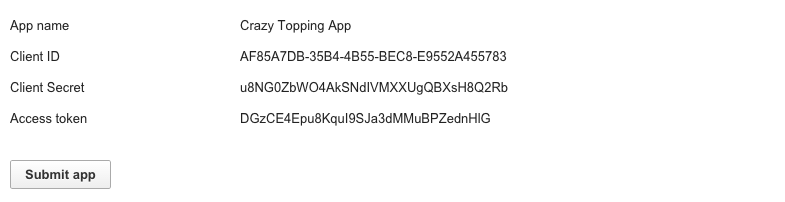
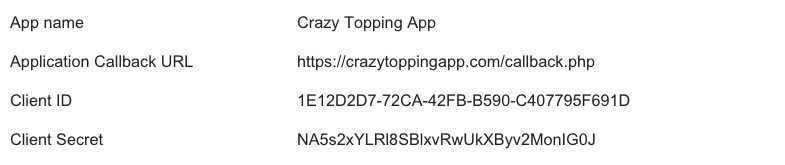
Include test authorisation flow
* TW-115
* Update "create an app" description
* Update affected screenshots

diff --git a/apps/create-app.md b/apps/create-app.md
@@ -4,34 +4,46 @@ key: apps-create
 title: Create an app
 ---
 
-Once you have your test shop in place, you can create an app. You automatically receive a **Client ID**, **Client Secret** and **Access token** when you create an app in your test shop.
+Once you have your test shop in place, you can create an app.
+You automatically receive a **Client ID** and a **Client Secret** when you create an app in your test shop.
+After successful authorisation of your app, you will be assigned an **Access token**.
 
 | Value              | Description                                                                                             |
 |--------------------|---------------------------------------------------------------------------------------------------------|
 | **Client&nbsp;ID**      | The unique identifier for your app. |
-| **Client&nbsp;Secret**   | Used in combination with the **Client ID** for getting an **Access Token** during the [authorisation process](page:apps-install#authorisation-process).|
+| **Client&nbsp;Secret**   | Used in combination with the **Client ID** for getting an **Access token** during the [authorisation process](page:apps-install#authorisation-process).|
 | **Access&nbsp;token** | The token granted from your test shop to the newly created app. You can use this token for accessing the API. [Read here for further details.](page:apps-install) |
 
 # Get your credentials
 
-1. Within the administration area of your test shop, click the tab **Apps & Themes**. In the drop down menu, choose the field **Developer apps**.
+1. Within the administration area of your test shop, click the tab **Apps & Themes**.
+In the drop down menu, choose the field **Developer apps**.
     {% image click-apps.png %}{% endimage %}
 
 2. In the **Developer apps** view, click the button **Add**.
     {% image add-button.png %}{% endimage %}
 
-3. Fill out the entry field **App name**. This field is mandatory. Then click the button **Generate API access data**.
+3. Fill out the input field **App name**.
+Specify the **Application Callback URL**.
+Make sure the URL is https and publicly accessible.
+Both input fields are mandatory.
+Click the button **Generate access data**.
     {% image fillout-app-name.png %}{% endimage %}
 
-4. You will be assigned a **Client ID**, **Client Secret** and **Access token**.
+4. You will be assigned a **Client ID** and a **Client Secret**.
     {% image test-shop-credentials.png %}{% endimage %}
+Happy coding! Once this is done, you can start coding away.
+You are free to use any kind of code language.
+But when developing your app, please consider our [API call limit](page:apps-api-call-limit).
+
+5. Once you have developed your app, click the button **Test authorisation**.
+    {% image test-authorisation.png %}{% endimage %}
+
+6. After successful authorisation, you will be assigned an **Access token**.
+      {% image access-token.png %}{% endimage %}
+Integrate the **Access token** into your application and test your app.
+Make sure that your app can access the API.
 
 {% callout danger Important! %}
 Store your **Client Secret** and **Access token** securely!
 {% endcallout %}
-
-You may want to integrate the **Client ID** and **Client Secret** into your application for the authorisation process.  Also, you are given the **Access token** upfront without having to pass the authorisation process. This **Access token** is granted by your test shop, so that you can start accessing the ePages API immediately.
-
-# Happy coding
-
-Once this is done, you can start coding away. You are free to use any kind of code language.  But when developing your app, please consider our [API call limit](page:apps-api-call-limit).
